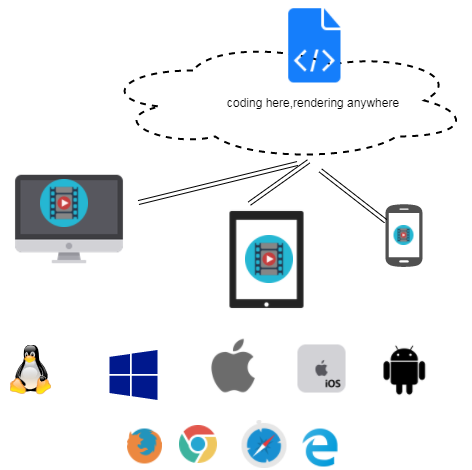
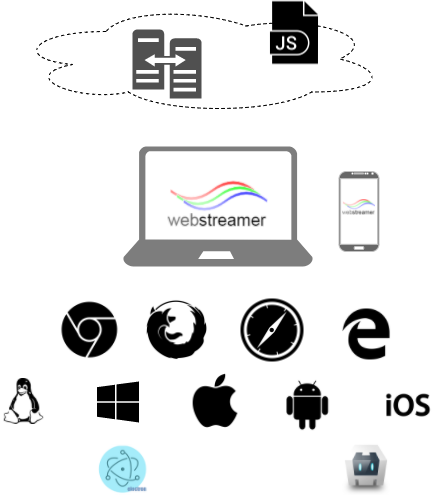
add overview

diff --git a/README.md b/README.md
@@ -7,10 +7,15 @@
 
 Welcome to WebStreamer, a full stack solution for multimedia application. We focus on multimedia software development and operations to facilitate more rapid of your business growth.
 
-Our vision is to write once, render anywhere.
+Our vision is to coding once, render anywhere. Technically, we leverage the Javascript was popular  in browser and server side.We planed to support eletron and cordova to adapt native SDK to enrich the application. 
 
 ![logo](./draw.io/vision.png)
 
+# Overview
+
+  Webstreamer is highly depend on a lot of C++ open source project function, i.e GStreamer, OpenCV, Tesseract . all the C++ open source package  managed by [conanos](https://conanos.github.io/) project. Conanos also provide [CI enviroment]().
+
+## Features
 
 # Status
 
